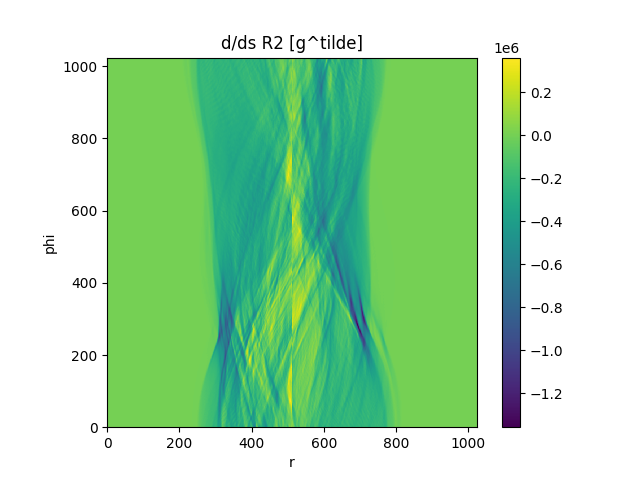
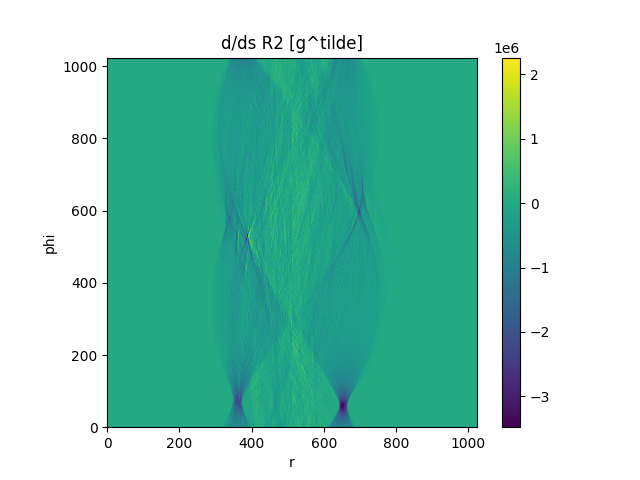
readme updated

diff --git a/register.py b/register.py
@@ -88,6 +88,7 @@ def main(*, path: str | None, cache_directory: str, load_cached: bool, regenerat
                                         save_to_cache=save_to_cache)
 
     detector_spacing, scene_geometry, drr_image, fixed_image, sinogram2d_range, transformation_ground_truth = drr_spec
+    del drr_spec
 
     logger.info("Plotting DRR and fixed image...")
     # Plotting DRR
@@ -135,7 +136,7 @@ def main(*, path: str | None, cache_directory: str, load_cached: bool, regenerat
     #                         torch.zeros_like(fixed_image, device='cpu')), dim=-1)
     # plt.imshow(overlaid)
 
-    if False:
+    if True:
         n = 80
         angle0s = torch.linspace(transformation_ground_truth.rotation[0] - torch.pi,
                                  transformation_ground_truth.rotation[0] + torch.pi, n)
@@ -148,8 +149,7 @@ def main(*, path: str | None, cache_directory: str, load_cached: bool, regenerat
             nznccs[i1, i0] = -objective_function.evaluate(fixed_image, sinogram3d, transformation=Transformation(
                 torch.tensor([angle0s[i0], angle1s[i1], transformation_ground_truth.rotation[2]], device=device),
                 transformation_ground_truth.translation), scene_geometry=scene_geometry,
-                                                          fixed_image_grid=sinogram2d_grid,
-                                                          sinogram3d_range=sinogram3d_range)[0]
+                                                          fixed_image_grid=sinogram2d_grid)[0]
         _, axes = plt.subplots()
         mesh = axes.pcolormesh(nznccs)
         axes.set_title("landscape over two angle components")
@@ -159,7 +159,7 @@ def main(*, path: str | None, cache_directory: str, load_cached: bool, regenerat
         plt.colorbar(mesh)
         plt.savefig("data/temp/landscape_no_sample_smoothing.pgf")
 
-        if True:
+        if False:
             nznccs = torch.zeros((n, n))
             for i in tqdm(range(nznccs.numel())):
                 i0 = i % n
@@ -167,8 +167,7 @@ def main(*, path: str | None, cache_directory: str, load_cached: bool, regenerat
                 nznccs[i1, i0] = -objective_function.evaluate(fixed_image, sinogram3d, transformation=Transformation(
                     torch.tensor([angle0s[i0], angle1s[i1], transformation_ground_truth.rotation[2]], device=device),
                     transformation_ground_truth.translation), scene_geometry=scene_geometry,
-                                                              fixed_image_grid=sinogram2d_grid,
-                                                              sinogram3d_range=sinogram3d_range, smooth=True)[0]
+                                                              fixed_image_grid=sinogram2d_grid, smooth=True)[0]
             _, axes = plt.subplots()
             mesh = axes.pcolormesh(nznccs)
             axes.set_title("landscape over two angle components, with sample smoothing")
@@ -178,7 +177,7 @@ def main(*, path: str | None, cache_directory: str, load_cached: bool, regenerat
             plt.colorbar(mesh)
             plt.savefig("data/temp/landscape_with_sample_smoothing.pgf")
 
-    if False:
+    if True:
         n = 1000
         nznccs = torch.zeros(n)
         distances = torch.zeros(n)
@@ -186,8 +185,7 @@ def main(*, path: str | None, cache_directory: str, load_cached: bool, regenerat
             transformation = Transformation.random(device=device)
             distances[i] = transformation_ground_truth.distance(transformation)
             nznccs[i] = -objective_function.evaluate(fixed_image, sinogram3d, transformation=transformation,
-                                                     scene_geometry=scene_geometry, fixed_image_grid=sinogram2d_grid,
-                                                     sinogram3d_range=sinogram3d_range)[0]
+                                                     scene_geometry=scene_geometry, fixed_image_grid=sinogram2d_grid)[0]
 
         _, axes = plt.subplots()
         axes.scatter(distances, nznccs)
@@ -264,6 +262,8 @@ def main(*, path: str | None, cache_directory: str, load_cached: bool, regenerat
         axes.set_xlabel("x")
         axes.set_ylabel("y")
         plt.colorbar(mesh)
+
+        del final_image
 
         param_history = torch.stack(param_history, dim=0)
         value_history = torch.tensor(value_history)

diff --git a/registration/lib/sinogram.py b/registration/lib/sinogram.py
@@ -188,16 +188,11 @@ class SinogramClassic(Sinogram):
             cartesian_points = fixed_image_grid_cartesian.flatten(end_dim=-2)
             pl.add_points(cartesian_points.cpu().numpy())  # , scalars=scalars.flatten().cpu().numpy())
             pl.show()
+            del cartesian_points
 
         fixed_image_grid_sph = geometry.moving_cartesian_to_moving_spherical(fixed_image_grid_cartesian)
 
-        ## sign changes - this implementation relies on the convenient coordinate system
-        moving_origin_projected = ph_matrix[0:2, 3] / ph_matrix[3, 3]
-        square_radius: torch.Tensor = .25 * moving_origin_projected.square().sum()
-        need_sign_change = ((fixed_image_grid.r.unsqueeze(-1) * torch.stack(
-            (torch.cos(fixed_image_grid.phi), torch.sin(fixed_image_grid.phi)),
-            dim=-1) - .5 * moving_origin_projected).square().sum(dim=-1) < square_radius)
-        ##
+        del fixed_image_grid_cartesian
 
         if plot:
             myplt.visualise_planes_as_points(fixed_image_grid_sph, fixed_image_grid_sph.phi)
@@ -236,7 +231,20 @@ class SinogramClassic(Sinogram):
                                 k_mapping(fixed_image_grid_sph.phi)), dim=-1)
             ret = Extension.grid_sample3d(self.data, grid, "wrap")
 
+        del fixed_image_grid_sph
+
+        ## sign changes - this implementation relies on the convenient coordinate system
+        moving_origin_projected = ph_matrix[0:2, 3] / ph_matrix[3, 3]
+        square_radius: torch.Tensor = .25 * moving_origin_projected.square().sum()
+        need_sign_change = ((fixed_image_grid.r.unsqueeze(-1) * torch.stack(
+            (torch.cos(fixed_image_grid.phi), torch.sin(fixed_image_grid.phi)),
+            dim=-1) - .5 * moving_origin_projected).square().sum(dim=-1) < square_radius)
+        ##
+
         ret[need_sign_change] *= -1.
+
+        del need_sign_change
+
         return ret
 
 

diff --git a/README.md b/README.md
@@ -1,4 +1,4 @@
-# CUDA-accelerated PyTorch extension for 2D/3D radiographic image registration using Grangeat's relation
+# A PyTorch extension for fast 2D/3D radiographic image registration using Grangeat's relation
 
 Based on this paper:
 
@@ -10,7 +10,9 @@ developed as part of a PhD.
 
 ## Setup
 
-CUDA is required. NVCC version information:
+The (slower) CPU implementations should work on all platforms.
+
+CUDA is required for the more expensive functionality to run quickly. NVCC version information:
 
 ```bash
 Cuda compilation tools, release 12.6, V12.6.85
@@ -86,11 +88,15 @@ the Nelder-Mead algorithm:
 ![translation_params_against_iteration.png](figures/translation_params_against_iteration.png)
 ![loss_against_iteration.png](figures/loss_against_iteration.png)
 
+The fixed image (= 1/cos^2 alpha * d/ds R2\[cos gamma * g\]) at the converged transformation:
+
+![ddr_R3_mu_resampled_converged.png](figures/ddr_R3_mu_resampled_converged.png)
+
 DRR generated at the converged transformation:
 
 ![converged_drr.png](figures/converged_drr.png)
 
-Optimisation completed in 1.429 seconds, performing a total of 564 function evaluations.
+Optimisation completed in 2.046 seconds, performing a total of 708 function evaluations.
 
 Here is a plot of the -ZNCC similarity between the fixed image and the resampled moving image against the distance in
 SE3
@@ -98,23 +104,34 @@ between the transformation and the ground truth transformation for 1000 random t
 
 ![loss_vs_distance.png](figures/loss_vs_distance.png)
 
-# Resampling
+[//]: # (# Resampling)
 
-The 3D sinogram image is stored as a 3D grid of values, where the dimensions correspond to different values of phi,
-theta and r. While this is very efficient for resampling, having the same number of value of phi for every value of
-theta results in memory inefficiency and an extremely high densities of values near theta = +/- pi/2.
+[//]: # ()
+[//]: # (The 3D sinogram image is stored as a 3D grid of values, where the dimensions correspond to different values of phi,)
 
-Smoothing the sampling consistently over S^2 to eliminate the second of these effects demonstrates that the line of
-discontinuity visible in the resampling of the sinogram is due to this effect:
+[//]: # (theta and r. While this is very efficient for resampling, having the same number of value of phi for every value of)
 
-![dds_R2_gtilde_ground_truth_no_sample_smoothing.png](figures/dds_R2_gtilde_ground_truth_no_sample_smoothing.png)
-![ddr_R3_mu_resampled_ground_truth_no_sample_smoothing.png](figures/ddr_R3_mu_resampled_ground_truth_no_sample_smoothing.png)
-![ddr_R3_mu_resampled_ground_truth_sample_smoothing.png](figures/ddr_R3_mu_resampled_ground_truth_sample_smoothing.png)
+[//]: # (theta results in memory inefficiency and an extremely high densities of values near theta = +/- pi/2.)
 
-Although there is no significant difference manifest in the resulting optimisation landscape:
+[//]: # ()
+[//]: # (Smoothing the sampling consistently over S^2 to eliminate the second of these effects demonstrates that the line of)
 
-![landscape_no_sample_smoothing.png](figures/landscape_no_sample_smoothing.png)
-![landscape_sample_smoothing.png](figures/landscape_sample_smoothing.png)
+[//]: # (discontinuity visible in the resampling of the sinogram is due to this effect:)
+
+[//]: # ()
+[//]: # (![dds_R2_gtilde_ground_truth_no_sample_smoothing.png]&#40;figures/dds_R2_gtilde_ground_truth_no_sample_smoothing.png&#41;)
+
+[//]: # (![ddr_R3_mu_resampled_ground_truth_no_sample_smoothing.png]&#40;figures/ddr_R3_mu_resampled_ground_truth_no_sample_smoothing.png&#41;)
+
+[//]: # (![ddr_R3_mu_resampled_ground_truth_sample_smoothing.png]&#40;figures/ddr_R3_mu_resampled_ground_truth_sample_smoothing.png&#41;)
+
+[//]: # ()
+[//]: # (Although there is no significant difference manifest in the resulting optimisation landscape:)
+
+[//]: # ()
+[//]: # (![landscape_no_sample_smoothing.png]&#40;figures/landscape_no_sample_smoothing.png&#41;)
+
+[//]: # (![landscape_sample_smoothing.png]&#40;figures/landscape_sample_smoothing.png&#41;)
 
 ## IDE integration
 
